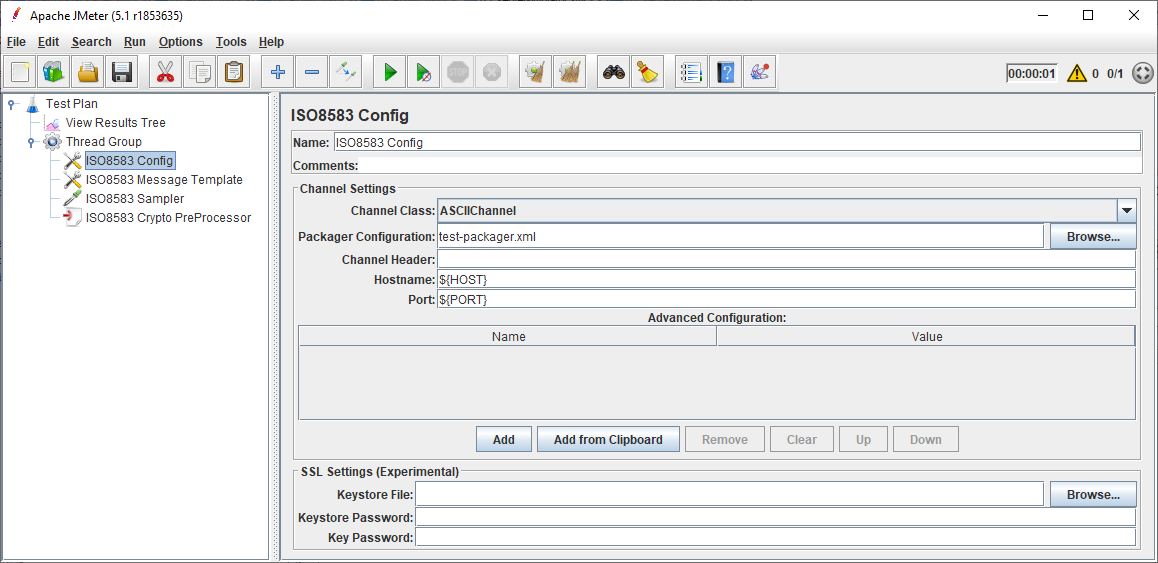
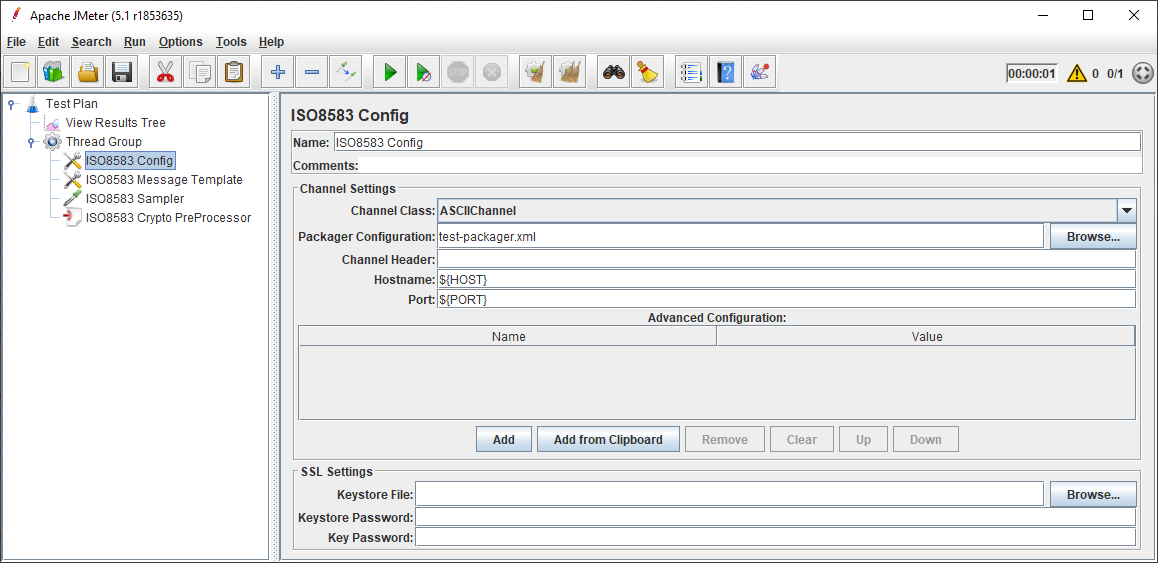
Documentation updates

Changed region(s): [[0.0, 0.0, 1.0, 1.0], [0.3109, 0.8153, 0.4041, 0.8455]]

diff --git a/README.md b/README.md
@@ -12,7 +12,7 @@ based on the excellent [jPOS framework](http://jpos.org/). Includes the followin
 - [*ISO8583 Sampler*](#sampler) for defining and sending messages,
 - [*ISO8583 Config*](#config) for integration with the system under test,
 - [*ISO8583 Message Template*](#template) (optional) for sharing common message fields,
-- [*ISO8583 Crypto*](#crypto) (optional) for encryption operations of certain message elements (PIN Block, MAC, ARQC).
+- [*ISO8583 Crypto PreProcessor*](#crypto) (optional) for encryption operations of certain message elements (PIN Block, MAC, ARQC).
 
 #### Prerequisites
 A so-called Packager is required to transform ("pack") the message into its binary representation for sending it over the wire.
@@ -40,17 +40,34 @@ Usage
 
 This Configuration element must be included to use the *ISO8583 Sampler*. 
 
-The following fields are mandatory:
-- *Channel Class*: Encapsulates the wire protocol details. 
-The dropdown contains classes included in jPOS 
+Mandatory settings:
+- *Channel Class*: 
+Encapsulates the wire protocol details. The dropdown contains classes included in jPOS 
 (refer [Channels documentation](http://jpos.org/doc/javadoc/org/jpos/iso/channel/package-summary.html)). 
 If none of those are suitable, a custom channel class may be supplied (enter fully qualified class name).
 - *Packager Configuration*:
 XML configuration file that defines the packaging format of each message field (as per Prerequisites above).
 - *Hostname*: 
-    * Client mode (JMeter connects to switch): Name or IP address of the switch to connect to.
-    * Server mode (switch connects to JMeter): Leave blank. JMeter will wait for incoming connection from the switch.
-- *Port*: Port number to connect to (outgoing from JMeter in client mode; incoming to JMeter in server mode).
+    * Client mode (JMeter connects to switch socket): Name or IP address of the switch to connect to.
+    * Server mode (switch connects to JMeter socket): Leave blank. JMeter will wait for incoming connection from the switch
+      before starting threads (timeout configurable via JMeter property `jmeter.iso8583.incomingConnectionTimeout`).
+- *Port*: 
+Port number to connect to (outgoing from JMeter in client mode; incoming to JMeter in server mode).
+
+Optional settings:
+- *Channel Header*: 
+A static header string for all messages (sent and received). 
+Note that some Channels use dynamic headers instead (e.g. VAPChannel).
+- *Advanced Configuration*: 
+Channel-dependent properties can be specified via *Name*/*Value* pairs.
+For example, [`srcid` and `dstid`](https://github.com/jpos/jPOS/blob/v2_1_3/jpos/src/main/java/org/jpos/iso/channel/VAPChannel.java#L236-L237)
+for VAPChannel's [Base1Header](https://github.com/jpos/jPOS/blob/v2_1_3/jpos/src/main/java/org/jpos/iso/header/BASE1Header.java).
+- *SSL Settings*: 
+For SSL/TLS connections, the *Keystore File* 
+(protected with *Keystore Password* for the file and *Key Password* for a private key) should contain:
+    * Client mode: the server's public certificate to trust and, optionally, 
+      the client certificate to send for authentication (mutual SSL).
+    * Server mode: the server certificate (with public and private key).
 
 ##### Implementation Details
 
@@ -62,13 +79,11 @@ It manages either set of 3 components (depending on client or server mode):
 
 While normally those would be configured by placing corresponding XML files into a `deploy` folder,
 here it is done dynamically via transforming configuration properties from the JMeter Test Plan
-into in-memory deployment descriptors (JDOM Elements).
+into in-memory deployment descriptors objects.
 These descriptors are then used to create and deploy QBeans at the test start and destroy them at the end.
 
-Advanced, Channel-dependent configuration properties can be specified via name/value pairs.
-For example, [`srcid` and `dstid`](https://github.com/jpos/jPOS/blob/v2_1_3/jpos/src/main/java/org/jpos/iso/channel/VAPChannel.java#L236-L237)
-for VAPChannel's Base1Header.
 For even more advanced use cases, above XML files may still be used and copied to the Q2 deploy folder.
+Its location is configurable via JMeter property `jmeter.iso8583.q2DeployDir`.
 
 
 <h3 id="sampler">ISO8583 Sampler</h3>
@@ -95,7 +110,7 @@ If the field's `class` attribute in the Packager configuration file is a subclas
 the field's *Content* is treated as binary and interpreted as hex digits (replacing incorrect digits with `F`).
 
 If the Packager's field class is not binary or cannot be determined (e.g. if there are no subfields, as for
-[BERTLVBinaryPackager](http://jpos.org/doc/javadoc/org/jpos/tlv/packager/bertlv/BERTLVBinaryPackager.html),
+[`BERTLVBinaryPackager`](http://jpos.org/doc/javadoc/org/jpos/tlv/packager/bertlv/BERTLVBinaryPackager.html),
 the *Content* will be taken as is and not be interpreted as hex digits.
 JMeter's function [`${__char()}`](https://jmeter.apache.org/usermanual/functions.html#__char)
 can be used to enter binary values in that case.
@@ -232,8 +247,8 @@ or Triple-DES key to use as BDK for DUKPT (32 hex digits).
 the 16 hex digits in this field will be interpreted as the Key Serial Number (KSN).
 
 The KSN scheme can be configured by changing the JMeter property `jmeter.iso8583.ksnDescriptor`. 
-For example, its default `6-5-5` means `bbbbbbdddddccccc` will be partitioned into 
-BDK ID `bbbbbb`, Device ID `ddddd`, and Counter `ccccc`.
+For example, its default "6-5-5" means `bbbbbbdddddccccc` will be partitioned into 
+BDK ID `bbbbbb`, device ID `ddddd`, and transaction counter `ccccc`.
 
 #### MAC Generation
 
